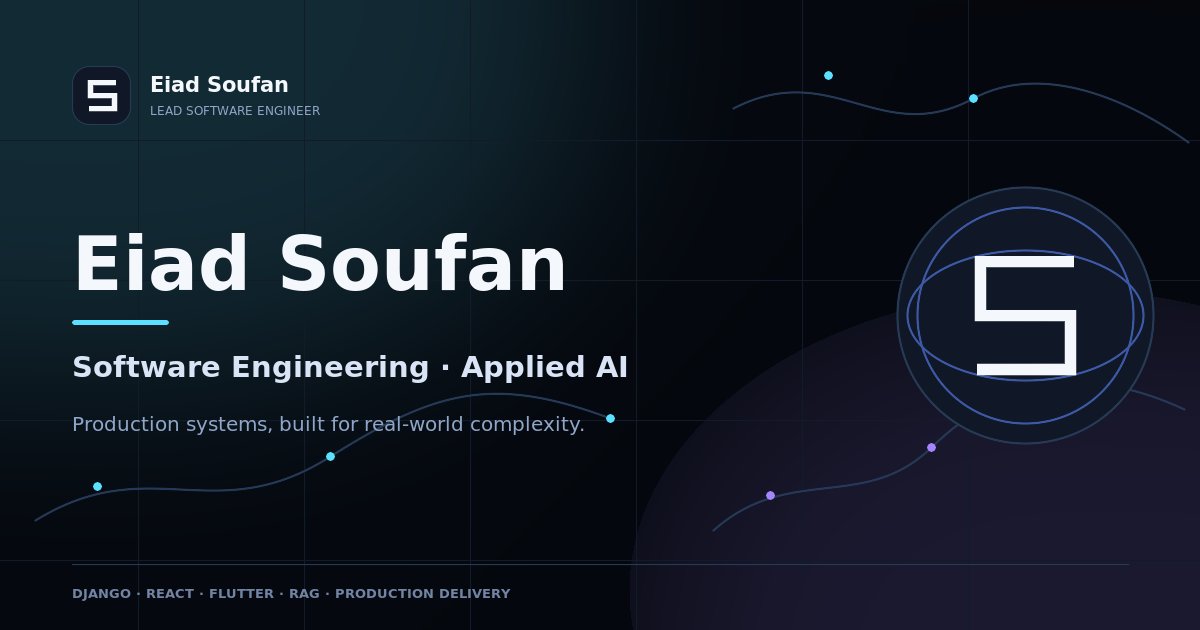
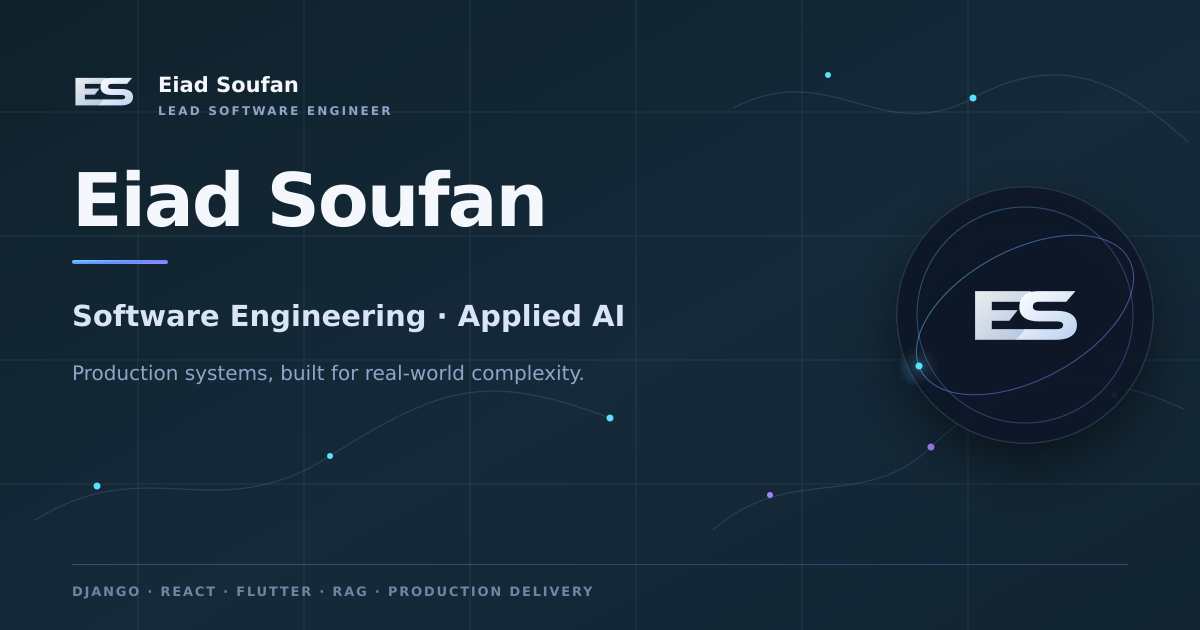
feat: adopt the ES brand identity

diff --git a/src/components/BrandMark.jsx b/src/components/BrandMark.jsx
@@ -1,32 +1,20 @@
-export default function BrandMark({ className = "h-10 w-10" }) {
+const E_PATH = "M4 8h37l-6 7H15v5.5h17l-5.5 7H15V33h23l-6 7H4Z";
+const S_PATH = "M45 8h25l-6 7H46c-2.5 0-4 1.1-4 3.2 0 1.8 1.4 2.7 4.2 2.7h11.2c8.8 0 13.6 3.3 13.6 9.4C71 36.7 65.8 40 57.2 40H31l6-7h20.7c2.8 0 4.2-1 4.2-2.7 0-1.6-1.4-2.4-4.4-2.4H46.2c-8.4 0-13.1-3.2-13.1-9.3C33.1 12 37.4 8 45 8Z";
+
+export default function BrandMark({ className = "h-9 w-[3.4rem]" }) {
   return (
     <span
-      className={`block shrink-0 drop-shadow-[0_10px_24px_rgb(0_0_0_/_0.32)] transition-transform duration-300 ease-premium group-hover:-translate-y-0.5 group-hover:scale-[1.025] ${className}`}
+      className={`block shrink-0 overflow-visible text-ink drop-shadow-[0_10px_24px_rgb(0_0_0_/_0.38)] transition-transform duration-300 ease-premium group-hover:-translate-y-0.5 group-hover:scale-[1.025] ${className}`}
       aria-hidden="true"
     >
       <svg
-        viewBox="0 0 48 48"
+        viewBox="0 0 74 48"
         className="h-full w-full"
         focusable="false"
+        shapeRendering="geometricPrecision"
       >
-        <rect
-          x="3"
-          y="3"
-          width="42"
-          height="42"
-          rx="13"
-          fill="#101827"
-          stroke="#8ea6c8"
-          strokeOpacity="0.2"
-        />
-        <path
-          d="M35 13.5H14V24H34V34.5H13"
-          fill="none"
-          stroke="#f4f7fb"
-          strokeWidth="3.6"
-          strokeLinecap="round"
-          strokeLinejoin="round"
-        />
+        <path d={E_PATH} fill="currentColor" fillOpacity="0.92" />
+        <path d={S_PATH} fill="currentColor" />
       </svg>
     </span>
   );

diff --git a/src/components/SignatureField.jsx b/src/components/SignatureField.jsx
@@ -139,7 +139,7 @@ export default function SignatureField() {
             />
           </svg>
 
-          <div className="absolute left-1/2 top-1/2 z-10 h-14 w-14 -translate-x-1/2 -translate-y-1/2 sm:h-16 sm:w-16">
+          <div className="absolute left-1/2 top-1/2 z-10 h-12 w-[4.5rem] -translate-x-1/2 -translate-y-1/2 sm:h-14 sm:w-[5.25rem]">
             <BrandMark className="h-full w-full" />
             <span className="absolute left-1/2 top-[calc(100%+0.45rem)] block w-[8.5rem] -translate-x-1/2 text-center text-[0.46rem] font-bold uppercase leading-[1.35] tracking-[0.16em] text-muted sm:top-[calc(100%+0.5rem)] sm:text-[0.5rem]">
               {copy.home.signature.core}

diff --git a/src/pages/AboutUs.jsx b/src/pages/AboutUs.jsx
@@ -112,7 +112,7 @@ function CareerConstellation({ reduceMotion, content }) {
       <div className="career-constellation-glow" aria-hidden="true" />
 
       <div className="career-core">
-        <BrandMark className="h-14 w-14 sm:h-16 sm:w-16" />
+        <BrandMark className="h-12 w-[4.5rem] sm:h-14 sm:w-[5.25rem]" />
         <span className="career-core-role">{content.role}</span>
         <strong className="career-core-name display-font">Eiad Soufan</strong>
       </div>

diff --git a/src/pages/WhyUs.jsx b/src/pages/WhyUs.jsx
@@ -123,7 +123,7 @@ function SystemBlueprint({ reduceMotion, content }) {
       </svg>
 
       <div className="blueprint-core">
-        <BrandMark className="h-12 w-12" />
+        <BrandMark className="h-10 w-16" />
         <span className="blueprint-core-label">{content.coherent}</span>
         <strong className="blueprint-core-name display-font">{content.system}</strong>
       </div>

diff --git a/src/styles/contact.css b/src/styles/contact.css
@@ -453,8 +453,8 @@ button.contact-action {
 }
 
 .contact-signal-mark {
-  width: 2.6rem;
-  height: 2.6rem;
+  width: 3rem;
+  height: 2rem;
 }
 
 .contact-signal-core > strong {
@@ -1204,8 +1204,8 @@ button.contact-action {
   }
 
   .contact-signal-mark {
-    width: 2.25rem;
-    height: 2.25rem;
+    width: 2.7rem;
+    height: 1.75rem;
   }
 
   .contact-form {

diff --git a/index.html b/index.html
@@ -56,7 +56,8 @@
 
     <!-- Icons -->
     <link rel="icon" type="image/svg+xml" href="/favicon.svg" />
-
+    <link rel="apple-touch-icon" sizes="180x180" href="/apple-touch-icon.png" />
+    <link rel="mask-icon" href="/safari-pinned-tab.svg" color="#5be0ff" />
     <link rel="manifest" href="/site.webmanifest" />
   </head>
 

diff --git a/src/styles/footer.css b/src/styles/footer.css
@@ -145,8 +145,8 @@
 }
 
 .site-footer-mark {
-  width: 2.6rem;
-  height: 2.6rem;
+  width: 3.2rem;
+  height: 2.1rem;
 }
 
 .site-footer-identity strong,
